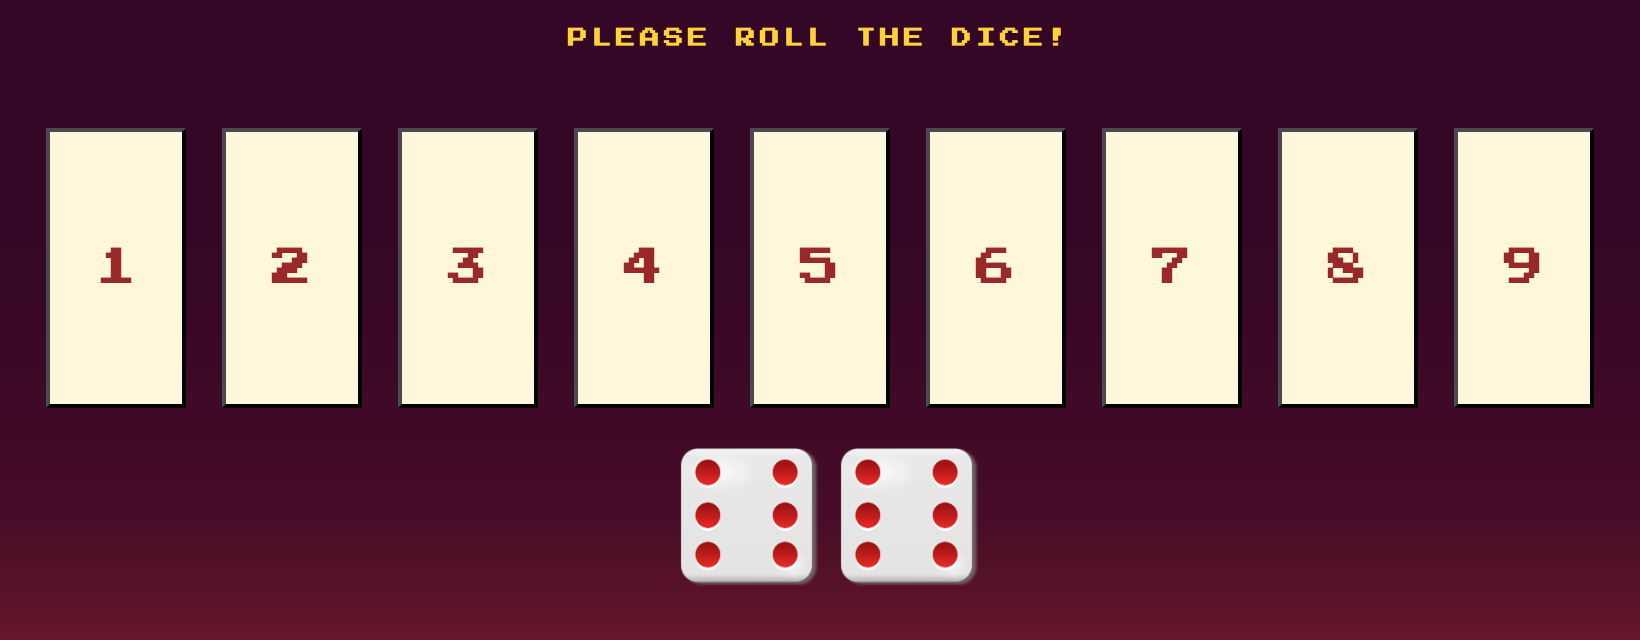
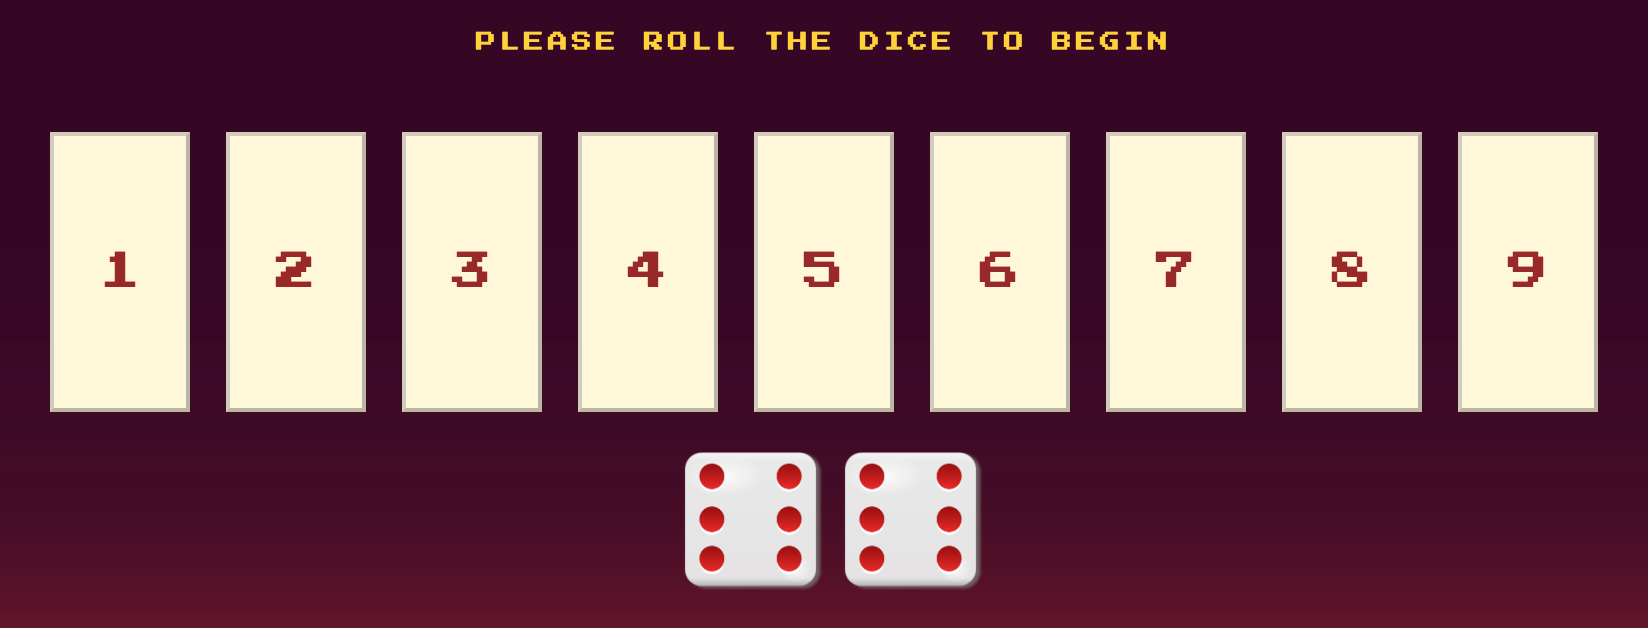
Update main game canvas image

diff --git a/README.md b/README.md
@@ -110,7 +110,7 @@ During game play messages are alert to help guid players through the game. Reset
 * The Main Game Canvas Area
     * This area of the game page shows all 9 interactive tiles and dice that will be used for rolling to get the sum. 
     * These tiles are interactive where player can select tile/s after rolling the dice from here. The tile will also change colour after being selected and will become invisible altogether once the sum of dice is met either by the flipped tile itself being equal to sum of dice or subsequence selection adding to it to become equal to sum of dice. This help player keeping track of the progress. 
-    * This area also is where all the alert messages to guid player through the game is displayed in gold colour. The message will alert if the correct process of the game isn't followed such as if player select a tile without rolling the dice first an alert message will show as Please roll the dice!.
+    * This area also is where all the alert messages to guid player through the game is displayed in gold colour. 
 
     ![Main Game Canvas](assets/image/readme-image/main-game-canvas.png)
 
